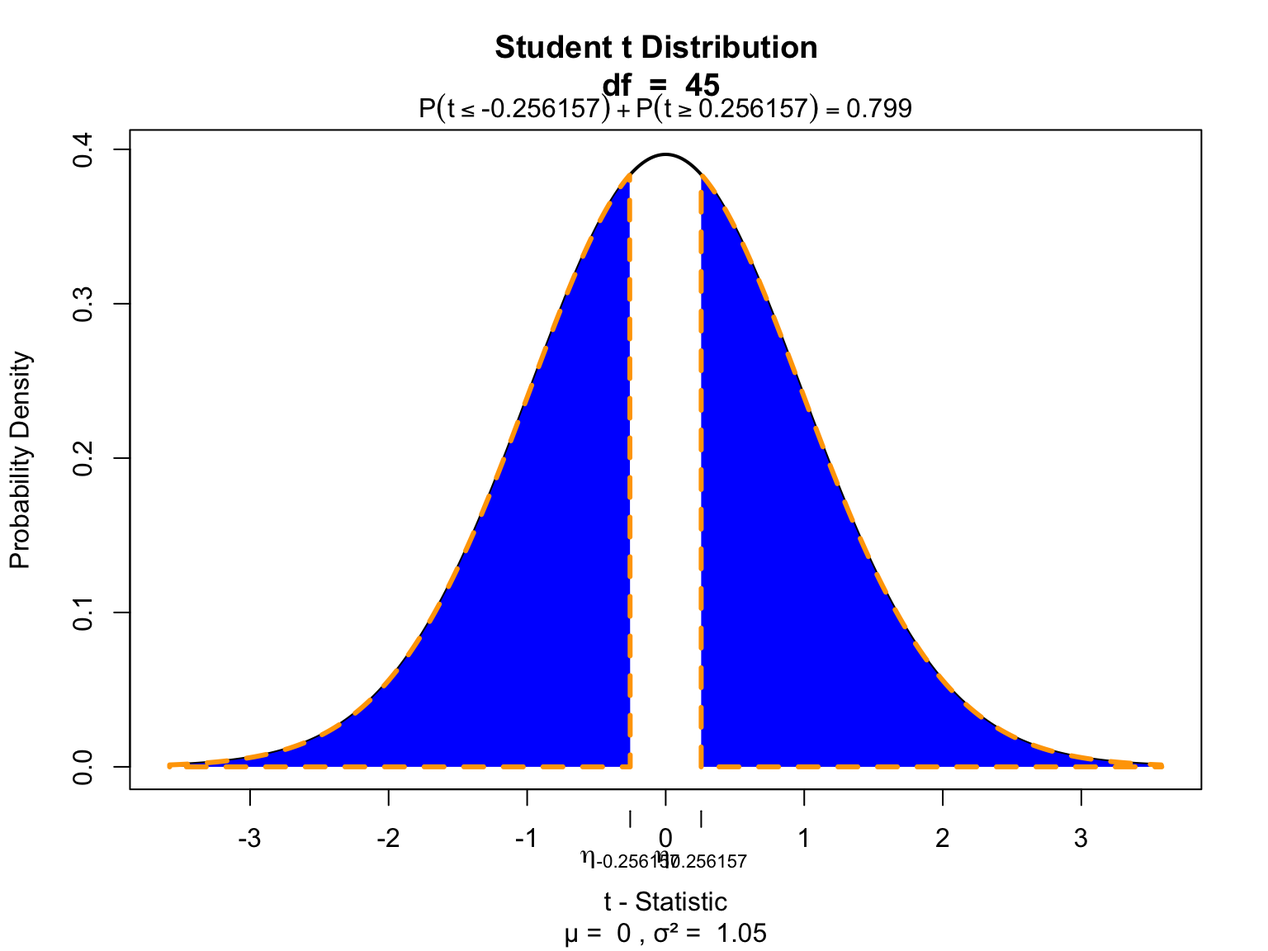
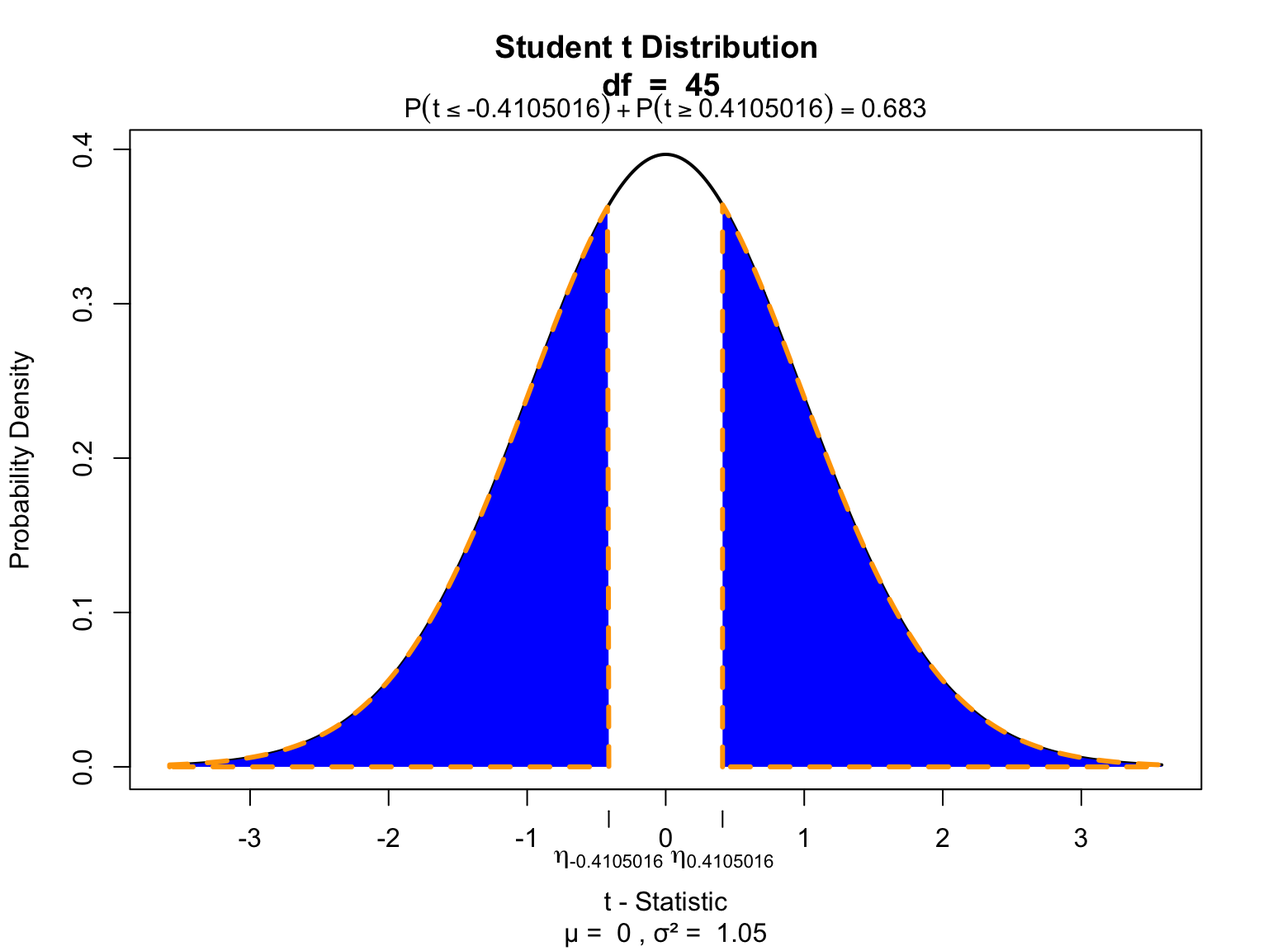
list updated

diff --git a/courses/2020-2021_SSR/paired_and_independent_t_test/paired_and_independent_t_test_reveal.html b/courses/2020-2021_SSR/paired_and_independent_t_test/paired_and_independent_t_test_reveal.html
@@ -4,7 +4,7 @@
   <meta charset="utf-8">
   <meta name="generator" content="pandoc">
   <meta name="author" content="Klinkenberg" />
-  <meta name="dcterms.date" content="2019-09-19" />
+  <meta name="dcterms.date" content="2020-09-17" />
   <title>Paired and Independent  t-test</title>
   <meta name="apple-mobile-web-app-capable" content="yes">
   <meta name="apple-mobile-web-app-status-bar-style" content="black-translucent">
@@ -581,7 +581,7 @@ document.getElementsByTagName('head')[0].appendChild(style);
 <section>
     <h1 class="title">Paired and Independent<br> t-test</h1>
     <h2 class="author">Klinkenberg</h2>
-    <h3 class="date">19 sep 2019</h3>
+    <h3 class="date">17 sep 2020</h3>
 </section>
 
 <section id="toc" class="slide level2">
@@ -655,13 +655,13 @@ document.getElementsByTagName('head')[0].appendChild(style);
 <span id="cb3-5"><a href="#cb3-5"></a></span>
 <span id="cb3-6"><a href="#cb3-6"></a><span class="cf">if</span>(<span class="op">!</span><span class="st">&quot;DT&quot;</span> <span class="op">%in%</span><span class="st"> </span><span class="kw">installed.packages</span>()) { <span class="kw">install.packages</span>(<span class="st">&quot;DT&quot;</span>) }</span>
 <span id="cb3-7"><a href="#cb3-7"></a><span class="kw">library</span>(<span class="st">&quot;DT&quot;</span>)</span></code></pre></div>
-<div id="htmlwidget-8d1eb4e20ecb2833ce72" style="width:100%;height:auto;" class="datatables html-widget"></div>
-<script type="application/json" data-for="htmlwidget-8d1eb4e20ecb2833ce72">{"x":{"filter":"none","data":[["1","2","3","4","5","6","7","8","9","10","11","12","13","14","15","16","17","18","19","20","21","22","23","24","25","26","27","28","29","30","31","32","33","34","35","36","37","38","39","40","41","42","43","44","45","46","47","48","49"],[130,120,124,124,120,130,119,118,124,125,125,120,125,130,116,125,120,120,116,120,122,125,140,120,120,115,131,115,123,125,121,120,125,150,135,125,110,120,127,120,128,110,120,119,121,119,112,125,100],[125,120,125,134,115,130,110,118,116,125,125,115,121,134,115,125,136,125,121,120,115,125,135,110,115,115,118,115,118,129,128,120,120,128,130,115,115,120,118,120,128,108,120,110,109,118,100,121,120]],"container":"<table class=\"display\">\n  <thead>\n    <tr>\n      <th> <\/th>\n      <th>IQ.next.to.you<\/th>\n      <th>Own.IQ<\/th>\n    <\/tr>\n  <\/thead>\n<\/table>","options":{"searching":false,"scrollY":415,"paging":false,"info":false,"columnDefs":[{"className":"dt-right","targets":[1,2]},{"orderable":false,"targets":0}],"order":[],"autoWidth":false,"orderClasses":false}},"evals":[],"jsHooks":[]}</script>
+<div id="htmlwidget-cb89c8059a50452ca29a" style="width:100%;height:auto;" class="datatables html-widget"></div>
+<script type="application/json" data-for="htmlwidget-cb89c8059a50452ca29a">{"x":{"filter":"none","data":[["1","2","3","4","5","6","7","8","9","10","11","12","13","14","15","16","17","18","19","20","21","22","23","24","25","26","27","28","29","30","31","32","33","34","35","36","37","38","39","40","41","42","43","44","45","46","47","48","49"],[130,120,124,124,120,130,119,118,124,125,125,120,125,130,116,125,120,120,116,120,122,125,140,120,120,115,131,115,123,125,121,120,125,150,135,125,110,120,127,120,128,110,120,119,121,119,112,125,100],[125,120,125,134,115,130,110,118,116,125,125,115,121,134,115,125,136,125,121,120,115,125,135,110,115,115,118,115,118,129,128,120,120,128,130,115,115,120,118,120,128,108,120,110,109,118,100,121,120]],"container":"<table class=\"display\">\n  <thead>\n    <tr>\n      <th> <\/th>\n      <th>IQ.next.to.you<\/th>\n      <th>Own.IQ<\/th>\n    <\/tr>\n  <\/thead>\n<\/table>","options":{"searching":false,"scrollY":415,"paging":false,"info":false,"columnDefs":[{"className":"dt-right","targets":[1,2]},{"orderable":false,"targets":0}],"order":[],"autoWidth":false,"orderClasses":false}},"evals":[],"jsHooks":[]}</script>
 </section><section id="calculate-d" class="slide level2 smaller subsection">
 <h2>Calculate <span class="math inline">\(D\)</span></h2>
 <div class="sourceCode" id="cb4"><pre class="sourceCode r"><code class="sourceCode r"><span id="cb4-1"><a href="#cb4-1"></a>D =<span class="st"> </span>IQ.next.to.you <span class="op">-</span><span class="st"> </span>IQ.you</span></code></pre></div>
-<div id="htmlwidget-84040ccafa3886d2764c" style="width:100%;height:auto;" class="datatables html-widget"></div>
-<script type="application/json" data-for="htmlwidget-84040ccafa3886d2764c">{"x":{"filter":"none","data":[["1","2","3","4","5","6","7","8","9","10","11","12","13","14","15","16","17","18","19","20","21","22","23","24","25","26","27","28","29","30","31","32","33","34","35","36","37","38","39","40","41","42","43","44","45","46","47","48","49"],[130,120,124,124,120,130,119,118,124,125,125,120,125,130,116,125,120,120,116,120,122,125,140,120,120,115,131,115,123,125,121,120,125,150,135,125,110,120,127,120,128,110,120,119,121,119,112,125,100],[125,120,125,134,115,130,110,118,116,125,125,115,121,134,115,125,136,125,121,120,115,125,135,110,115,115,118,115,118,129,128,120,120,128,130,115,115,120,118,120,128,108,120,110,109,118,100,121,120],[5,0,-1,-10,5,0,9,0,8,0,0,5,4,-4,1,0,-16,-5,-5,0,7,0,5,10,5,0,13,0,5,-4,-7,0,5,22,5,10,-5,0,9,0,0,2,0,9,12,1,12,4,-20]],"container":"<table class=\"display\">\n  <thead>\n    <tr>\n      <th> <\/th>\n      <th>IQ.next.to.you<\/th>\n      <th>Own.IQ<\/th>\n      <th>D<\/th>\n    <\/tr>\n  <\/thead>\n<\/table>","options":{"searching":false,"scrollY":315,"paging":false,"info":false,"columnDefs":[{"className":"dt-right","targets":[1,2,3]},{"orderable":false,"targets":0}],"order":[],"autoWidth":false,"orderClasses":false}},"evals":[],"jsHooks":[]}</script>
+<div id="htmlwidget-e0c90da67fc0621d2976" style="width:100%;height:auto;" class="datatables html-widget"></div>
+<script type="application/json" data-for="htmlwidget-e0c90da67fc0621d2976">{"x":{"filter":"none","data":[["1","2","3","4","5","6","7","8","9","10","11","12","13","14","15","16","17","18","19","20","21","22","23","24","25","26","27","28","29","30","31","32","33","34","35","36","37","38","39","40","41","42","43","44","45","46","47","48","49"],[130,120,124,124,120,130,119,118,124,125,125,120,125,130,116,125,120,120,116,120,122,125,140,120,120,115,131,115,123,125,121,120,125,150,135,125,110,120,127,120,128,110,120,119,121,119,112,125,100],[125,120,125,134,115,130,110,118,116,125,125,115,121,134,115,125,136,125,121,120,115,125,135,110,115,115,118,115,118,129,128,120,120,128,130,115,115,120,118,120,128,108,120,110,109,118,100,121,120],[5,0,-1,-10,5,0,9,0,8,0,0,5,4,-4,1,0,-16,-5,-5,0,7,0,5,10,5,0,13,0,5,-4,-7,0,5,22,5,10,-5,0,9,0,0,2,0,9,12,1,12,4,-20]],"container":"<table class=\"display\">\n  <thead>\n    <tr>\n      <th> <\/th>\n      <th>IQ.next.to.you<\/th>\n      <th>Own.IQ<\/th>\n      <th>D<\/th>\n    <\/tr>\n  <\/thead>\n<\/table>","options":{"searching":false,"scrollY":315,"paging":false,"info":false,"columnDefs":[{"className":"dt-right","targets":[1,2,3]},{"orderable":false,"targets":0}],"order":[],"autoWidth":false,"orderClasses":false}},"evals":[],"jsHooks":[]}</script>
 </section><section id="calculate-bard" class="slide level2">
 <h2>Calculate <span class="math inline">\(\bar{D}\)</span></h2>
 <div class="sourceCode" id="cb5"><pre class="sourceCode r"><code class="sourceCode r"><span id="cb5-1"><a href="#cb5-1"></a>D      =<span class="st"> </span><span class="kw">na.omit</span>(D) <span class="co"># get rid of all missing values</span></span>
@@ -785,8 +785,8 @@ EXECUTE.</code></pre>
 <div class="sourceCode" id="cb15"><pre class="sourceCode r"><code class="sourceCode r"><span id="cb15-1"><a href="#cb15-1"></a>gender =<span class="st"> </span><span class="kw">sample</span>(<span class="kw">c</span>(<span class="st">&quot;male&quot;</span>, <span class="st">&quot;female&quot;</span>), <span class="kw">dim</span>(data)[<span class="dv">1</span>], <span class="dt">replace =</span> <span class="ot">TRUE</span>)</span></code></pre></div>
 </section><section id="the-data" class="slide level2">
 <h2>The data</h2>
-<div id="htmlwidget-245cd94e7948b43be47a" style="width:100%;height:auto;" class="datatables html-widget"></div>
-<script type="application/json" data-for="htmlwidget-245cd94e7948b43be47a">{"x":{"filter":"none","data":[["1","2","3","4","5","6","7","8","9","10","11","12","13","14","15","16","17","18","19","20","21","22","23","24","25","26","27","28","29","30","31","32","33","34","35","36","37","38","39","40","41","42","43","44","45","46","47","48","49"],["male","male","male","male","male","male","male","male","male","male","male","male","male","male","female","male","female","male","male","female","male","male","male","male","male","male","female","female","male","female","male","female","male","female","female","female","male","male","male","male","female","male","male","female","female","female","male","female","male"],[125,120,125,134,115,130,110,118,116,125,125,115,121,134,115,125,136,125,121,120,115,125,135,110,115,115,118,115,118,129,128,120,120,128,130,115,115,120,118,120,128,108,120,110,109,118,100,121,120]],"container":"<table class=\"display\">\n  <thead>\n    <tr>\n      <th> <\/th>\n      <th>gender<\/th>\n      <th>IQ.you<\/th>\n    <\/tr>\n  <\/thead>\n<\/table>","options":{"searching":false,"scrollY":415,"paging":false,"info":false,"columnDefs":[{"className":"dt-right","targets":2},{"orderable":false,"targets":0}],"order":[],"autoWidth":false,"orderClasses":false}},"evals":[],"jsHooks":[]}</script>
+<div id="htmlwidget-ac0d00fe928879200689" style="width:100%;height:auto;" class="datatables html-widget"></div>
+<script type="application/json" data-for="htmlwidget-ac0d00fe928879200689">{"x":{"filter":"none","data":[["1","2","3","4","5","6","7","8","9","10","11","12","13","14","15","16","17","18","19","20","21","22","23","24","25","26","27","28","29","30","31","32","33","34","35","36","37","38","39","40","41","42","43","44","45","46","47","48","49"],["female","female","male","female","female","male","female","female","male","female","male","female","male","male","male","female","male","female","female","male","female","female","male","female","female","male","female","male","male","male","female","female","male","female","male","male","male","female","male","female","female","female","female","female","male","male","male","male","male"],[125,120,125,134,115,130,110,118,116,125,125,115,121,134,115,125,136,125,121,120,115,125,135,110,115,115,118,115,118,129,128,120,120,128,130,115,115,120,118,120,128,108,120,110,109,118,100,121,120]],"container":"<table class=\"display\">\n  <thead>\n    <tr>\n      <th> <\/th>\n      <th>gender<\/th>\n      <th>IQ.you<\/th>\n    <\/tr>\n  <\/thead>\n<\/table>","options":{"searching":false,"scrollY":415,"paging":false,"info":false,"columnDefs":[{"className":"dt-right","targets":2},{"orderable":false,"targets":0}],"order":[],"autoWidth":false,"orderClasses":false}},"evals":[],"jsHooks":[]}</script>
 </section><section id="calculate-means" class="slide level2 subsection">
 <h2>Calculate means</h2>
 <div class="sourceCode" id="cb16"><pre class="sourceCode r"><code class="sourceCode r"><span id="cb16-1"><a href="#cb16-1"></a>IQ.you.male   =<span class="st"> </span><span class="kw">subset</span>(data, gender <span class="op">==</span><span class="st"> &quot;male&quot;</span>,   <span class="dt">select =</span> IQ.you)<span class="op">$</span>IQ.you</span>
@@ -797,22 +797,22 @@ EXECUTE.</code></pre>
 <span id="cb16-6"><a href="#cb16-6"></a></span>
 <span id="cb16-7"><a href="#cb16-7"></a><span class="kw">rbind</span>(IQ.you.male.mean, IQ.you.female.mean)</span></code></pre></div>
 <pre><code>##                        [,1]
-## IQ.you.male.mean   120.1765
-## IQ.you.female.mean 120.8000</code></pre>
+## IQ.you.male.mean   120.8333
+## IQ.you.female.mean 119.9200</code></pre>
 </section><section id="calculate-variance" class="slide level2 smaller subsection">
 <h2>Calculate variance</h2>
 <div class="sourceCode" id="cb18"><pre class="sourceCode r"><code class="sourceCode r"><span id="cb18-1"><a href="#cb18-1"></a>IQ.you.male.var   =<span class="st"> </span><span class="kw">var</span>(IQ.you.male,   <span class="dt">na.rm =</span> T)</span>
 <span id="cb18-2"><a href="#cb18-2"></a>IQ.you.female.var =<span class="st"> </span><span class="kw">var</span>(IQ.you.female, <span class="dt">na.rm =</span> T)</span>
 <span id="cb18-3"><a href="#cb18-3"></a><span class="kw">rbind</span>(IQ.you.male.var, IQ.you.female.var)</span></code></pre></div>
 <pre><code>##                       [,1]
-## IQ.you.male.var   56.93761
-## IQ.you.female.var 61.45714</code></pre>
+## IQ.you.male.var   72.49275
+## IQ.you.female.var 44.41000</code></pre>
 <div class="sourceCode" id="cb20"><pre class="sourceCode r"><code class="sourceCode r"><span id="cb20-1"><a href="#cb20-1"></a>IQ.you.male.n   =<span class="st"> </span><span class="kw">length</span>(IQ.you.male)   <span class="op">-</span><span class="st"> </span><span class="dv">1</span></span>
 <span id="cb20-2"><a href="#cb20-2"></a>IQ.you.female.n =<span class="st"> </span><span class="kw">length</span>(IQ.you.female) <span class="op">-</span><span class="st"> </span><span class="dv">1</span></span>
 <span id="cb20-3"><a href="#cb20-3"></a><span class="kw">rbind</span>(IQ.you.male.n, IQ.you.female.n)</span></code></pre></div>
 <pre><code>##                 [,1]
-## IQ.you.male.n     33
-## IQ.you.female.n   14</code></pre>
+## IQ.you.male.n     23
+## IQ.you.female.n   24</code></pre>
 </section><section id="calculate-t-value-1" class="slide level2">
 <h2>Calculate t-value</h2>
 <p><span class="math display">\[t_{n_1 + n_2 -2} = \frac{(\bar{X}_1 - \bar{X}_2) - \mu}{{SE}_p}\]</span></p>
@@ -831,20 +831,20 @@ EXECUTE.</code></pre>
 <span id="cb22-5"><a href="#cb22-5"></a>df</span></code></pre></div>
 <pre><code>## [1] 45</code></pre>
 <div class="sourceCode" id="cb24"><pre class="sourceCode r"><code class="sourceCode r"><span id="cb24-1"><a href="#cb24-1"></a>s2.p</span></code></pre></div>
-<pre><code>## [1] 58.24325</code></pre>
+<pre><code>## [1] 58.13935</code></pre>
 </section><section id="calculate-pooled-se" class="slide level2 subsection">
 <h2>Calculate pooled SE</h2>
 <p><span class="math display">\[{SE}_p = \sqrt{\frac{S^2_p}{n_1}+\frac{S^2_p}{n_2}}\]</span></p>
 <div class="sourceCode" id="cb26"><pre class="sourceCode r"><code class="sourceCode r"><span id="cb26-1"><a href="#cb26-1"></a>se.p    =<span class="st"> </span><span class="kw">sqrt</span>( ((s2.p<span class="op">/</span>IQ.you.male.n) <span class="op">+</span><span class="st"> </span>(s2.p<span class="op">/</span>IQ.you.female.n)) )</span>
 <span id="cb26-2"><a href="#cb26-2"></a>se.p</span></code></pre></div>
-<pre><code>## [1] 2.434169</code></pre>
+<pre><code>## [1] 2.22492</code></pre>
 </section><section id="calculate-t-value-2" class="slide level2 subsection">
 <h2>Calculate t-value</h2>
 <p><span class="math display">\[t_{n_1 + n_2 -2} = \frac{(\bar{X}_1 - \bar{X}_2) - \mu}{{SE}_p}\]</span></p>
 <div class="sourceCode" id="cb28"><pre class="sourceCode r"><code class="sourceCode r"><span id="cb28-1"><a href="#cb28-1"></a>t =<span class="st"> </span>( IQ.you.male.mean <span class="op">-</span><span class="st"> </span>IQ.you.female.mean ) <span class="op">/</span><span class="st"> </span>se.p</span>
 <span id="cb28-2"><a href="#cb28-2"></a></span>
 <span id="cb28-3"><a href="#cb28-3"></a>t</span></code></pre></div>
-<pre><code>## [1] -0.256157</code></pre>
+<pre><code>## [1] 0.4105016</code></pre>
 </section><section id="test-for-significance-1" class="slide level2">
 <h2>Test for significance</h2>
 <p>Two tailed</p>
@@ -861,7 +861,7 @@ EXECUTE.</code></pre>
 <div class="sourceCode" id="cb31"><pre class="sourceCode r"><code class="sourceCode r"><span id="cb31-1"><a href="#cb31-1"></a>r =<span class="st"> </span><span class="kw">sqrt</span>(t<span class="op">^</span><span class="dv">2</span><span class="op">/</span>(t<span class="op">^</span><span class="dv">2</span> <span class="op">+</span><span class="st"> </span>df))</span>
 <span id="cb31-2"><a href="#cb31-2"></a></span>
 <span id="cb31-3"><a href="#cb31-3"></a>r</span></code></pre></div>
-<pre><code>## [1] 0.03815782</code></pre>
+<pre><code>## [1] 0.06107971</code></pre>
 <!-- Footer insert below -->
 </section></section>
 <section><section id="end" class="title-slide slide level1"><h1>End</h1></section><section id="contact" class="slide level2">

diff --git a/courses/2020-2021_SSR/paired_and_independent_t_test/paired_and_independent_t_test_handout.html b/courses/2020-2021_SSR/paired_and_independent_t_test/paired_and_independent_t_test_handout.html
@@ -11,7 +11,7 @@
 
 <meta name="author" content="Klinkenberg" />
 
-<meta name="date" content="2019-09-19" />
+<meta name="date" content="2020-09-17" />
 
 <title>Paired and Independent  t-test</title>
 
@@ -279,7 +279,7 @@ div.tocify {
 
 <h1 class="title toc-ignore">Paired and Independent<br> t-test</h1>
 <h4 class="author">Klinkenberg</h4>
-<h4 class="date">19 sep 2019</h4>
+<h4 class="date">17 sep 2020</h4>
 
 </div>
 
@@ -362,14 +362,14 @@ IQ.you         = data$Own.IQ
 
 if(!&quot;DT&quot; %in% installed.packages()) { install.packages(&quot;DT&quot;) }
 library(&quot;DT&quot;)</code></pre>
-<div id="htmlwidget-b1a61f7917c33344dffc" style="width:100%;height:auto;" class="datatables html-widget"></div>
-<script type="application/json" data-for="htmlwidget-b1a61f7917c33344dffc">{"x":{"filter":"none","data":[["1","2","3","4","5","6","7","8","9","10","11","12","13","14","15","16","17","18","19","20","21","22","23","24","25","26","27","28","29","30","31","32","33","34","35","36","37","38","39","40","41","42","43","44","45","46","47","48","49"],[130,120,124,124,120,130,119,118,124,125,125,120,125,130,116,125,120,120,116,120,122,125,140,120,120,115,131,115,123,125,121,120,125,150,135,125,110,120,127,120,128,110,120,119,121,119,112,125,100],[125,120,125,134,115,130,110,118,116,125,125,115,121,134,115,125,136,125,121,120,115,125,135,110,115,115,118,115,118,129,128,120,120,128,130,115,115,120,118,120,128,108,120,110,109,118,100,121,120]],"container":"<table class=\"display\">\n  <thead>\n    <tr>\n      <th> <\/th>\n      <th>IQ.next.to.you<\/th>\n      <th>Own.IQ<\/th>\n    <\/tr>\n  <\/thead>\n<\/table>","options":{"searching":false,"scrollY":415,"paging":false,"info":false,"columnDefs":[{"className":"dt-right","targets":[1,2]},{"orderable":false,"targets":0}],"order":[],"autoWidth":false,"orderClasses":false}},"evals":[],"jsHooks":[]}</script>
+<div id="htmlwidget-3eee54069dcf2ce7802f" style="width:100%;height:auto;" class="datatables html-widget"></div>
+<script type="application/json" data-for="htmlwidget-3eee54069dcf2ce7802f">{"x":{"filter":"none","data":[["1","2","3","4","5","6","7","8","9","10","11","12","13","14","15","16","17","18","19","20","21","22","23","24","25","26","27","28","29","30","31","32","33","34","35","36","37","38","39","40","41","42","43","44","45","46","47","48","49"],[130,120,124,124,120,130,119,118,124,125,125,120,125,130,116,125,120,120,116,120,122,125,140,120,120,115,131,115,123,125,121,120,125,150,135,125,110,120,127,120,128,110,120,119,121,119,112,125,100],[125,120,125,134,115,130,110,118,116,125,125,115,121,134,115,125,136,125,121,120,115,125,135,110,115,115,118,115,118,129,128,120,120,128,130,115,115,120,118,120,128,108,120,110,109,118,100,121,120]],"container":"<table class=\"display\">\n  <thead>\n    <tr>\n      <th> <\/th>\n      <th>IQ.next.to.you<\/th>\n      <th>Own.IQ<\/th>\n    <\/tr>\n  <\/thead>\n<\/table>","options":{"searching":false,"scrollY":415,"paging":false,"info":false,"columnDefs":[{"className":"dt-right","targets":[1,2]},{"orderable":false,"targets":0}],"order":[],"autoWidth":false,"orderClasses":false}},"evals":[],"jsHooks":[]}</script>
 </div>
 <div id="calculate-d" class="section level2 smaller subsection">
 <h2>Calculate <span class="math inline">\(D\)</span></h2>
 <pre class="r"><code>D = IQ.next.to.you - IQ.you</code></pre>
-<div id="htmlwidget-ba45e0268c693882f53f" style="width:100%;height:auto;" class="datatables html-widget"></div>
-<script type="application/json" data-for="htmlwidget-ba45e0268c693882f53f">{"x":{"filter":"none","data":[["1","2","3","4","5","6","7","8","9","10","11","12","13","14","15","16","17","18","19","20","21","22","23","24","25","26","27","28","29","30","31","32","33","34","35","36","37","38","39","40","41","42","43","44","45","46","47","48","49"],[130,120,124,124,120,130,119,118,124,125,125,120,125,130,116,125,120,120,116,120,122,125,140,120,120,115,131,115,123,125,121,120,125,150,135,125,110,120,127,120,128,110,120,119,121,119,112,125,100],[125,120,125,134,115,130,110,118,116,125,125,115,121,134,115,125,136,125,121,120,115,125,135,110,115,115,118,115,118,129,128,120,120,128,130,115,115,120,118,120,128,108,120,110,109,118,100,121,120],[5,0,-1,-10,5,0,9,0,8,0,0,5,4,-4,1,0,-16,-5,-5,0,7,0,5,10,5,0,13,0,5,-4,-7,0,5,22,5,10,-5,0,9,0,0,2,0,9,12,1,12,4,-20]],"container":"<table class=\"display\">\n  <thead>\n    <tr>\n      <th> <\/th>\n      <th>IQ.next.to.you<\/th>\n      <th>Own.IQ<\/th>\n      <th>D<\/th>\n    <\/tr>\n  <\/thead>\n<\/table>","options":{"searching":false,"scrollY":315,"paging":false,"info":false,"columnDefs":[{"className":"dt-right","targets":[1,2,3]},{"orderable":false,"targets":0}],"order":[],"autoWidth":false,"orderClasses":false}},"evals":[],"jsHooks":[]}</script>
+<div id="htmlwidget-c473c9677ecef6226f7c" style="width:100%;height:auto;" class="datatables html-widget"></div>
+<script type="application/json" data-for="htmlwidget-c473c9677ecef6226f7c">{"x":{"filter":"none","data":[["1","2","3","4","5","6","7","8","9","10","11","12","13","14","15","16","17","18","19","20","21","22","23","24","25","26","27","28","29","30","31","32","33","34","35","36","37","38","39","40","41","42","43","44","45","46","47","48","49"],[130,120,124,124,120,130,119,118,124,125,125,120,125,130,116,125,120,120,116,120,122,125,140,120,120,115,131,115,123,125,121,120,125,150,135,125,110,120,127,120,128,110,120,119,121,119,112,125,100],[125,120,125,134,115,130,110,118,116,125,125,115,121,134,115,125,136,125,121,120,115,125,135,110,115,115,118,115,118,129,128,120,120,128,130,115,115,120,118,120,128,108,120,110,109,118,100,121,120],[5,0,-1,-10,5,0,9,0,8,0,0,5,4,-4,1,0,-16,-5,-5,0,7,0,5,10,5,0,13,0,5,-4,-7,0,5,22,5,10,-5,0,9,0,0,2,0,9,12,1,12,4,-20]],"container":"<table class=\"display\">\n  <thead>\n    <tr>\n      <th> <\/th>\n      <th>IQ.next.to.you<\/th>\n      <th>Own.IQ<\/th>\n      <th>D<\/th>\n    <\/tr>\n  <\/thead>\n<\/table>","options":{"searching":false,"scrollY":315,"paging":false,"info":false,"columnDefs":[{"className":"dt-right","targets":[1,2,3]},{"orderable":false,"targets":0}],"order":[],"autoWidth":false,"orderClasses":false}},"evals":[],"jsHooks":[]}</script>
 </div>
 <div id="calculate-bard" class="section level2">
 <h2>Calculate <span class="math inline">\(\bar{D}\)</span></h2>
@@ -405,7 +405,7 @@ library(&quot;visualize&quot;)
 
 visualize.t(c(-t,t), df, section=&quot;tails&quot;)</code></pre>
 <hr />
-<p><img src="paired_and_independent_t_test_handout_files/figure-html/unnamed-chunk-39-1.png" width="672" /></p>
+<p><img src="paired_and_independent_t_test_handout_files/figure-html/unnamed-chunk-12-1.png" width="672" /></p>
 </div>
 <div id="effect-size" class="section level2 subsection">
 <h2>Effect-size</h2>
@@ -506,8 +506,8 @@ EXECUTE.</code></pre>
 </div>
 <div id="the-data" class="section level2">
 <h2>The data</h2>
-<div id="htmlwidget-3ecf911a9598e9e5e941" style="width:100%;height:auto;" class="datatables html-widget"></div>
-<script type="application/json" data-for="htmlwidget-3ecf911a9598e9e5e941">{"x":{"filter":"none","data":[["1","2","3","4","5","6","7","8","9","10","11","12","13","14","15","16","17","18","19","20","21","22","23","24","25","26","27","28","29","30","31","32","33","34","35","36","37","38","39","40","41","42","43","44","45","46","47","48","49"],["female","female","male","female","male","female","male","male","male","female","female","female","male","female","female","female","female","female","male","female","male","male","female","male","male","male","female","male","male","female","female","male","female","female","male","female","male","female","female","female","female","female","male","male","male","male","female","male","female"],[125,120,125,134,115,130,110,118,116,125,125,115,121,134,115,125,136,125,121,120,115,125,135,110,115,115,118,115,118,129,128,120,120,128,130,115,115,120,118,120,128,108,120,110,109,118,100,121,120]],"container":"<table class=\"display\">\n  <thead>\n    <tr>\n      <th> <\/th>\n      <th>gender<\/th>\n      <th>IQ.you<\/th>\n    <\/tr>\n  <\/thead>\n<\/table>","options":{"searching":false,"scrollY":415,"paging":false,"info":false,"columnDefs":[{"className":"dt-right","targets":2},{"orderable":false,"targets":0}],"order":[],"autoWidth":false,"orderClasses":false}},"evals":[],"jsHooks":[]}</script>
+<div id="htmlwidget-24b11b079edb76f6778d" style="width:100%;height:auto;" class="datatables html-widget"></div>
+<script type="application/json" data-for="htmlwidget-24b11b079edb76f6778d">{"x":{"filter":"none","data":[["1","2","3","4","5","6","7","8","9","10","11","12","13","14","15","16","17","18","19","20","21","22","23","24","25","26","27","28","29","30","31","32","33","34","35","36","37","38","39","40","41","42","43","44","45","46","47","48","49"],["male","female","female","female","female","male","female","male","male","female","male","male","male","male","female","female","male","female","male","male","female","female","male","male","female","male","male","male","male","female","male","male","female","female","female","male","female","female","female","female","female","female","female","female","female","female","female","female","male"],[125,120,125,134,115,130,110,118,116,125,125,115,121,134,115,125,136,125,121,120,115,125,135,110,115,115,118,115,118,129,128,120,120,128,130,115,115,120,118,120,128,108,120,110,109,118,100,121,120]],"container":"<table class=\"display\">\n  <thead>\n    <tr>\n      <th> <\/th>\n      <th>gender<\/th>\n      <th>IQ.you<\/th>\n    <\/tr>\n  <\/thead>\n<\/table>","options":{"searching":false,"scrollY":415,"paging":false,"info":false,"columnDefs":[{"className":"dt-right","targets":2},{"orderable":false,"targets":0}],"order":[],"autoWidth":false,"orderClasses":false}},"evals":[],"jsHooks":[]}</script>
 </div>
 <div id="calculate-means" class="section level2 subsection">
 <h2>Calculate means</h2>
@@ -519,8 +519,8 @@ IQ.you.female.mean = mean(IQ.you.female, na.rm = T)
 
 rbind(IQ.you.male.mean, IQ.you.female.mean)</code></pre>
 <pre><code>##                        [,1]
-## IQ.you.male.mean   117.3636
-## IQ.you.female.mean 122.8148</code></pre>
+## IQ.you.male.mean   121.6667
+## IQ.you.female.mean 119.3929</code></pre>
 </div>
 <div id="calculate-variance" class="section level2 smaller subsection">
 <h2>Calculate variance</h2>
@@ -528,14 +528,14 @@ rbind(IQ.you.male.mean, IQ.you.female.mean)</code></pre>
 IQ.you.female.var = var(IQ.you.female, na.rm = T)
 rbind(IQ.you.male.var, IQ.you.female.var)</code></pre>
 <pre><code>##                       [,1]
-## IQ.you.male.var   28.52814
-## IQ.you.female.var 68.61823</code></pre>
+## IQ.you.male.var   53.13333
+## IQ.you.female.var 59.95106</code></pre>
 <pre class="r"><code>IQ.you.male.n   = length(IQ.you.male)   - 1
 IQ.you.female.n = length(IQ.you.female) - 1
 rbind(IQ.you.male.n, IQ.you.female.n)</code></pre>
 <pre><code>##                 [,1]
-## IQ.you.male.n     21
-## IQ.you.female.n   26</code></pre>
+## IQ.you.male.n     20
+## IQ.you.female.n   27</code></pre>
 </div>
 <div id="calculate-t-value-1" class="section level2">
 <h2>Calculate t-value</h2>
@@ -556,14 +556,14 @@ s2.p = ( (IQ.you.male.n-1)*IQ.you.male.var + (IQ.you.female.n-1)*IQ.you.female.v
 df</code></pre>
 <pre><code>## [1] 45</code></pre>
 <pre class="r"><code>s2.p</code></pre>
-<pre><code>## [1] 50.80041</code></pre>
+<pre><code>## [1] 57.07246</code></pre>
 </div>
 <div id="calculate-pooled-se" class="section level2 subsection">
 <h2>Calculate pooled SE</h2>
 <p><span class="math display">\[{SE}_p = \sqrt{\frac{S^2_p}{n_1}+\frac{S^2_p}{n_2}}\]</span></p>
 <pre class="r"><code>se.p    = sqrt( ((s2.p/IQ.you.male.n) + (s2.p/IQ.you.female.n)) )
 se.p</code></pre>
-<pre><code>## [1] 2.091155</code></pre>
+<pre><code>## [1] 2.228771</code></pre>
 </div>
 <div id="calculate-t-value-2" class="section level2 subsection">
 <h2>Calculate t-value</h2>
@@ -571,7 +571,7 @@ se.p</code></pre>
 <pre class="r"><code>t = ( IQ.you.male.mean - IQ.you.female.mean ) / se.p
 
 t</code></pre>
-<pre><code>## [1] -2.606779</code></pre>
+<pre><code>## [1] 1.020208</code></pre>
 </div>
 <div id="test-for-significance-1" class="section level2">
 <h2>Test for significance</h2>
@@ -581,7 +581,7 @@ library(&quot;visualize&quot;)
 
 visualize.t(c(-t,t), df, section=&quot;tails&quot;)</code></pre>
 <hr />
-<p><img src="paired_and_independent_t_test_handout_files/figure-html/unnamed-chunk-50-1.png" width="672" /></p>
+<p><img src="paired_and_independent_t_test_handout_files/figure-html/unnamed-chunk-23-1.png" width="672" /></p>
 </div>
 <div id="effect-size-1" class="section level2">
 <h2>Effect-size</h2>
@@ -589,7 +589,7 @@ visualize.t(c(-t,t), df, section=&quot;tails&quot;)</code></pre>
 <pre class="r"><code>r = sqrt(t^2/(t^2 + df))
 
 r</code></pre>
-<pre><code>## [1] 0.3622088</code></pre>
+<pre><code>## [1] 0.1503548</code></pre>
 <!-- Footer insert below -->
 </div>
 </div>

diff --git a/2020-2021_SSR.html b/2020-2021_SSR.html
@@ -309,28 +309,28 @@ $(document).ready(function () {
 </thead>
 <tbody>
 <tr class="odd">
+<td align="left">2020-09-17</td>
+<td align="left">Paired and Independent t-test</td>
+<td align="left"><a href="https://shklinkenberg.github.io/statistics-lectures/courses/2020-2021_SSR//paired_and_independent_t_test/paired_and_independent_t_test_reveal.html" target="_blank">slide</a></td>
+<td align="left"><a href="https://shklinkenberg.github.io/statistics-lectures/courses/2020-2021_SSR//paired_and_independent_t_test/paired_and_independent_t_test_handout.html" target="_blank">handout</a></td>
+</tr>
+<tr class="even">
 <td align="left">2020-09-15</td>
 <td align="left">T-distribution and the One-sample t-test</td>
 <td align="left"><a href="https://shklinkenberg.github.io/statistics-lectures/courses/2020-2021_SSR//t_distribution_and_one_sample_t_test/t_distribution_and_one_sample_t_test_reveal.html" target="_blank">slide</a></td>
 <td align="left"><a href="https://shklinkenberg.github.io/statistics-lectures/courses/2020-2021_SSR//t_distribution_and_one_sample_t_test/t_distribution_and_one_sample_t_test_handout.html" target="_blank">handout</a></td>
 </tr>
-<tr class="even">
+<tr class="odd">
 <td align="left">2020-09-10</td>
 <td align="left">Null Hypothesis Testing</td>
 <td align="left"><a href="https://shklinkenberg.github.io/statistics-lectures/courses/2020-2021_SSR//nhst/nhst_reveal.html" target="_blank">slide</a></td>
 <td align="left"><a href="https://shklinkenberg.github.io/statistics-lectures/courses/2020-2021_SSR//nhst/nhst_handout.html" target="_blank">handout</a></td>
 </tr>
-<tr class="odd">
+<tr class="even">
 <td align="left">2020-09-03</td>
 <td align="left">Statistical Reasoning Null Hypothesis Testisn</td>
 <td align="left"><a href="https://shklinkenberg.github.io/statistics-lectures/courses/2020-2021_SSR//reasoning_nhst/reasoning_empirical_cycle_nhst_reveal.html" target="_blank">slide</a></td>
 <td align="left"><a href="https://shklinkenberg.github.io/statistics-lectures/courses/2020-2021_SSR//reasoning_nhst/reasoning_empirical_cycle_nhst_handout.html" target="_blank">handout</a></td>
-</tr>
-<tr class="even">
-<td align="left">2019-09-19</td>
-<td align="left">Paired and Independent t-test</td>
-<td align="left"><a href="https://shklinkenberg.github.io/statistics-lectures/courses/2020-2021_SSR//paired_and_independent_t_test/paired_and_independent_t_test_reveal.html" target="_blank">slide</a></td>
-<td align="left"><a href="https://shklinkenberg.github.io/statistics-lectures/courses/2020-2021_SSR//paired_and_independent_t_test/paired_and_independent_t_test_handout.html" target="_blank">handout</a></td>
 </tr>
 </tbody>
 </table>
